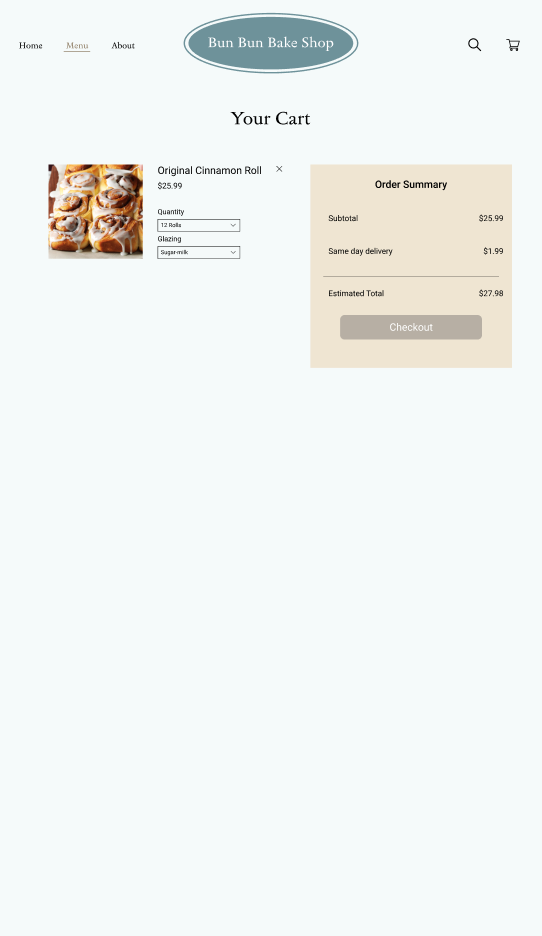
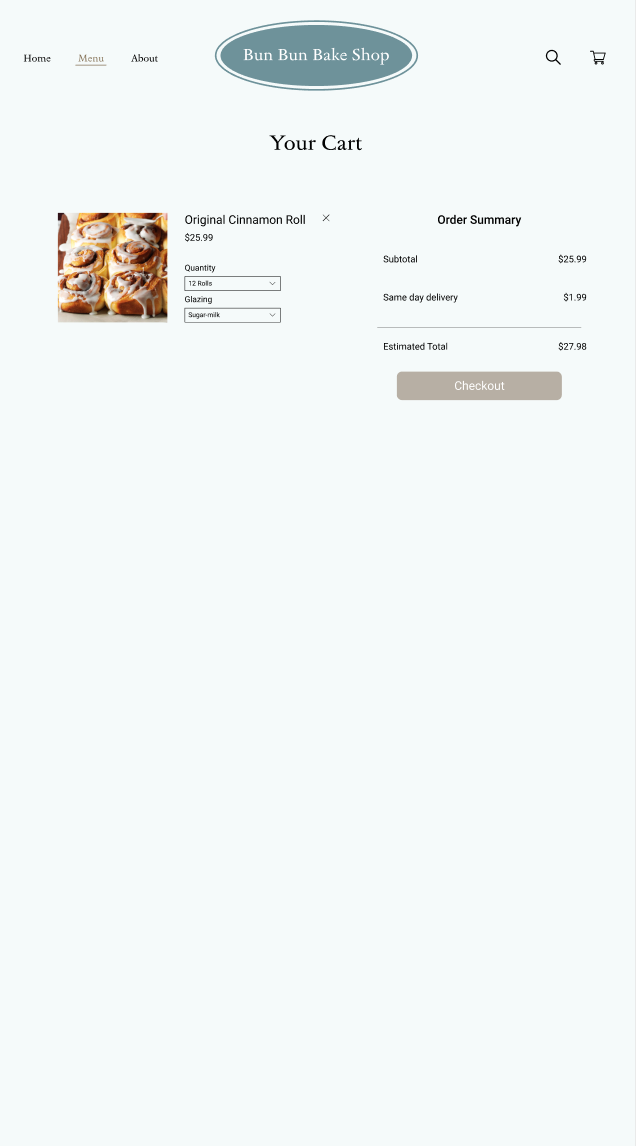
added js

diff --git a/PUI2020/homework_6/cart.html b/PUI2020/homework_6/cart.html
@@ -27,15 +27,15 @@
             <div class="row">
                 <div class="col">
                     <div class="cart" id="image">
-                        <img class="cartimage" src="images/original.jpg" id="cartimage">
+                        <img class="cartimage" src="images/one.jpg" id="products-image">
                     </div>
                 </div>
                 <div class="col"> 
                     <div class="cart" id="settings">  
-                        <h2>Original Cinnamon Roll</h2>
+                        <h2 id="producttitle">Original Cinnamon Roll</h2>
                         <p>$25.99</p>
                         <label for="Quantity">Quantity:</label>
-                        <select name="12 rolls" id="rolls">
+                        <select name="12 rolls" id="rolls" onchange="updateCartImage()">
                             <option value="1">1 roll</option>
                             <option value="3">3 rolls</option>
                             <option value="6">6 rolls</option>
@@ -43,20 +43,20 @@
                         </select>
                     </br>
                         <label for="Glazing">Glazing:</label>
-                        <select name="Sugar-Milk" id="Sugar-Milk">
+                        <select name="None" id="glazing" onchange="updateCartName()">
+                            <option value="none">None</option>
                             <option value="Sugar-Milk">Sugar-Milk</option>
                             <option value="Vanilla-Milk">Vanilla-Milk</option>
                             <option value="Double-Chocolate">Double-Chocolate</option>
-                            <option value="none">None</option>
                         </select>
                     </div>
                 </div>
                 <div class="col">
                     <div class="cart" id="summary">
                         <h2>Order Summary</h2>
-                        <p>Subtotal</p>
-                        <p>Same day delivery</p>
-                        <p>Estimated Total</p>
+                        <p>Subtotal: $25.99</p>
+                        <p>Same day delivery: $1.99</p>
+                        <p>Estimated Total: $27.98</p>
                         <button class= "button" type="button">Checkout</button>
                         <p>Continue Shopping</p>
                     </div>

diff --git a/PUI2020/homework_6/detail.html b/PUI2020/homework_6/detail.html
@@ -43,13 +43,13 @@
                             <input type="radio" id="12-rolls" name="quantity" value="12-rolls" onclick="update12()">
                             <label for="12-rolls">12 Rolls</label><br>
                         <p>Glazing</p>
-                            <input type="radio" id="none" name="glazing" value="None" onclick="updateoriginal()">
+                            <input type="radio" id="none" name="glazing" value="None" onclick="updateOriginal()">
                             <label for="none">None</label><br>
-                            <input type="radio" id="Sugar-Milk" name="glazing" value="Sugar-Milk" onclick="updatesugar()">
+                            <input type="radio" id="Sugar-Milk" name="glazing" value="Sugar-Milk" onclick="updateSugar()">
                             <label for="Sugar-Milk">Sugar-Milk</label><br>
-                            <input type="radio" id="Vanilla-Milk" name="glazing" value="Vanilla-Milk" onclick="updatevanilla()">
+                            <input type="radio" id="Vanilla-Milk" name="glazing" value="Vanilla-Milk" onclick="updateVanilla()">
                             <label for="Vanilla-Milk">Vanilla-Milk</label><br>
-                            <input type="radio" id="Double-Chocolate" name="glazing" value="Double-Chocolate" onclick="updatechocolate()">
+                            <input type="radio" id="Double-Chocolate" name="glazing" value="Double-Chocolate" onclick="updateChocolate()">
                             <label for="Double-Chocolate">Double-Chocolate</label><br>
                         <p>Delivery</p>
                             <input type="radio" id="delivery" name="delivery" value="delivery">

diff --git a/PUI2020/homework_6/js/scripts.js b/PUI2020/homework_6/js/scripts.js
@@ -36,18 +36,52 @@ function update6() {
     document.getElementById('products-image').setAttribute("src", "images/six.jpg");
 }
 
-function updateoriginal() {
+function updateOriginal() {
     document.getElementById('producttitle').innerHTML = "Original Cinnamon Roll";
 }
 
-function updatesugar() {
+function updateSugar() {
     document.getElementById('producttitle').innerHTML = "Sugar-Milk Original Cinnamon Roll";
 }
 
-function updatevanilla() {
+function updateVanilla() {
     document.getElementById('producttitle').innerHTML = "Vanilla-Milk Original Cinnamon Roll";
 }
 
-function updatechocolate() {
+function updateChocolate() {
     document.getElementById('producttitle').innerHTML = "Double Chocolate Original Cinnamon Roll";
+}
+
+function updateCartImage() {
+    item = document.getElementById('rolls').value;
+    
+    if (item == "1") {
+        update1();
+    }
+    else if (item == "3") {
+        update3();
+    }
+    else if (item == "6") {
+        update6();
+    }
+    else if (item == "12") {
+        update12();
+    }
+}
+
+function updateCartName() {
+    item = document.getElementById('glazing').value;
+
+    if (item == "None") {
+        updateOriginal();
+    }
+    else if (item == "Sugar-Milk") {
+        updateSugar();
+    }
+    else if (item == "Vanilla-Milk") {
+        updateVanilla();
+    }
+    else if (item == "Double-Chocolate") {
+        updateChocolate();
+    }
 }

diff --git a/PUI2020/homework_5/cart.html b/PUI2020/homework_5/cart.html
@@ -35,8 +35,8 @@
                         <h2>Original Cinnamon Roll</h2>
                         <p>$25.99</p>
                         <label for="Quantity">Quantity:</label>
-                        <select name="12 rolls" id="rolls">
-                            <option value="1">1 roll</option>
+                        <select name="12 rolls" id="rolls" onclick="updateImageCart()">
+                            <option value="1">1 roll </option>
                             <option value="3">3 rolls</option>
                             <option value="6">6 rolls</option>
                             <option value="12">12 rolls</option>

diff --git a/PUI2020/homework_5/js/scripts.js b/PUI2020/homework_5/js/scripts.js
@@ -51,3 +51,8 @@ function updatevanilla() {
 function updatechocolate() {
     document.getElementById('producttitle').innerHTML = "Double Chocolate Original Cinnamon Roll";
 }
+
+function updateImageCart() {
+    item = document.getElementById('rolls').value;
+    console.log(item);
+}
